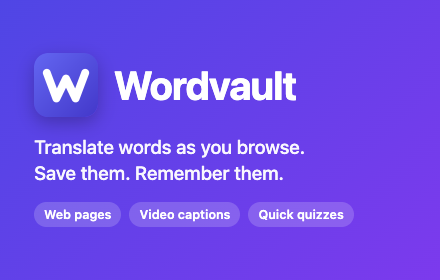
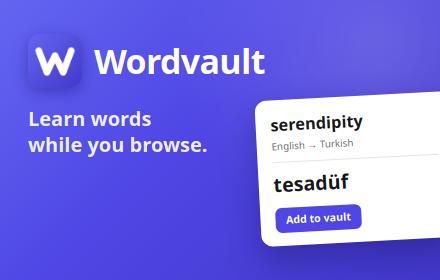
Promotional tiles for the Chrome Web Store: the small one (440x280) and the marquee (1400x560)
The small tile replaces the draft. Both show the icon, the name, a short line and cards drawn after
the real translation bubble and quiz card.

diff --git a/docs/store/visual-assets.md b/docs/store/visual-assets.md
@@ -10,8 +10,8 @@ What each store asks for, and what is ready. Requirements as published by the Ch
 | `screenshots/2-vault.png` | 1280×800 | Screenshot | Screenshot | The vault window | Ready |
 | `screenshots/3-quiz.png` | 1280×800 | Screenshot | Screenshot | The quiz card on a page | Ready |
 | `screenshots/4-settings.png` | 1280×800 | Screenshot | Screenshot | The settings page | Ready |
-| `promo-440x280.png` | 440×280 | Small promotional tile (required) | Not used | Name and icon | **Draft**: replace before submitting |
-| — | 1400×560 | Marquee promotional tile (optional, only for featuring) | Not used | — | Not made |
+| `promo-440x280.png` | 440×280 | Small promotional tile (required) | Not used | Icon, name, "Learn words while you browse." and a translation card | Ready (legible at half size) |
+| `marquee-1400x560.png` | 1400×560 | Marquee promotional tile (optional, used only if the item is featured) | Not used | Icon, name, tagline, three places it works, a translation card and a quiz card | Ready |
 
 Optional, not made: a fifth screenshot of an AI feature (for example the "Summarise this page" card).
 It would need a real provider's answer on screen; nothing in the image may suggest that the AI
@@ -27,6 +27,12 @@ the vault window and the settings page before they were redesigned. Make them ag
 bubble, the toolbar window, the quiz card or the settings page change visibly. They show the English
 interface; Turkish screenshots are optional (both stores can show the same images for every listing
 language).
+
+## How the promotional tiles were made
+
+From an HTML page rendered by Chromium at their exact size (Noto Sans, the colours of the icon, the
+icon itself). The cards in them are drawn for the tile, after the real translation bubble and quiz
+card, and show real words and translations.
 
 ## Rules both stores apply
 

diff --git a/RELEASE-CHECKLIST.md b/RELEASE-CHECKLIST.md
@@ -41,7 +41,7 @@ The steps of a release, in order. Building: `BUILD.md`. Store texts and images: 
 - [ ] Developer account; contact e-mail verified.
 - [ ] Upload `wordvault-<version>-chrome.zip`.
 - [ ] Store listing: `docs/store/en/listing.md` (and Turkish: `docs/store/tr/listing.md`); category
-      Education; images: `docs/store/visual-assets.md` (replace the draft promotional tile).
+      Education; images: `docs/store/visual-assets.md` (four screenshots, small promotional tile, optionally the marquee tile).
 - [ ] Privacy practices: single purpose, permission reasons (`docs/store/en/permissions.md`), remote code
       "No", data types and certifications (`docs/store/en/privacy-practices.md`), privacy policy URL.
 - [ ] Test instructions: `docs/store/en/reviewer-notes.md`.

diff --git a/docs/store/README.md b/docs/store/README.md
@@ -13,7 +13,7 @@ How to build the packages: `BUILD.md`. The steps of a release, in order: `RELEAS
 | `en/reviewer-notes.md` | Chrome's test instructions and AMO's notes to reviewer (source code, third-party libraries, linter warnings) | English |
 | `visual-assets.md` | Every image the stores ask for, its size and state | English |
 | `screenshots/` | 1280×800 screenshots | |
-| `promo-440x280.png` | Chrome's small promotional tile (draft) | |
+| `promo-440x280.png`, `marquee-1400x560.png` | Chrome's small (required) and marquee (optional) promotional tiles | |
 
 Privacy policy: `PRIVACY.md` (English) and `docs/privacy.html`, generated from it with `npm run privacy`
 (`tests/privacy-page.test.js` fails while the page is out of date).
